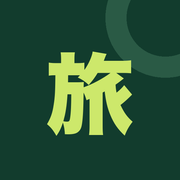
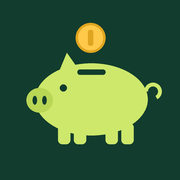
アイコンを貯金箱に変更

Changed region(s): [[0.1389, 0.0, 1.0, 0.8056]]

diff --git a/index.html b/index.html
@@ -7,8 +7,8 @@
   <meta name="apple-mobile-web-app-capable" content="yes">
   <meta name="apple-mobile-web-app-status-bar-style" content="black-translucent">
   <meta name="apple-mobile-web-app-title" content="旅貯金">
-  <link rel="apple-touch-icon" href="icon.png">
-  <link rel="icon" href="icon.png">
+  <link rel="apple-touch-icon" href="icon.png?v=2">
+  <link rel="icon" href="icon.png?v=2">
   <title>旅貯金</title>
   <meta name="viewport" content="width=device-width, initial-scale=1, viewport-fit=cover">
   <link rel="preconnect" href="https://fonts.googleapis.com">

diff --git a/sw.js b/sw.js
@@ -1,7 +1,7 @@
 // 画面ファイルを端末に保存し、次回は通信を待たずに即表示する。裏で最新版を取得して次回に反映する。
 // 家計データ（script.google.com）は保存しない。
-const CACHE = 'hapalua-shell-v1';
-const SHELL = ['./', './index.html', './icon.png'];
+const CACHE = 'hapalua-shell-v2';
+const SHELL = ['./', './index.html', './icon.png?v=2'];
 
 self.addEventListener('install', event => {
   event.waitUntil(caches.open(CACHE).then(cache => cache.addAll(SHELL)));
